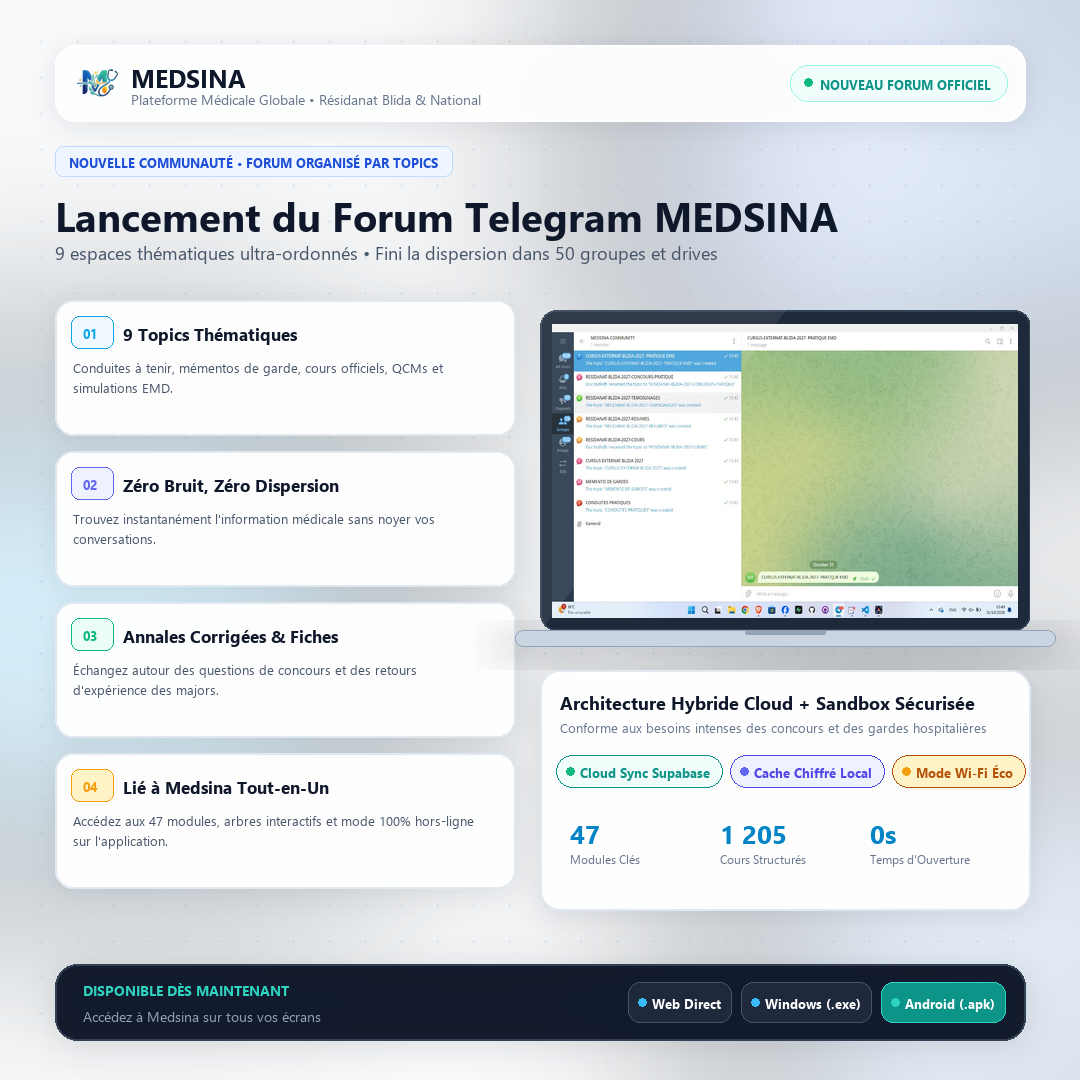
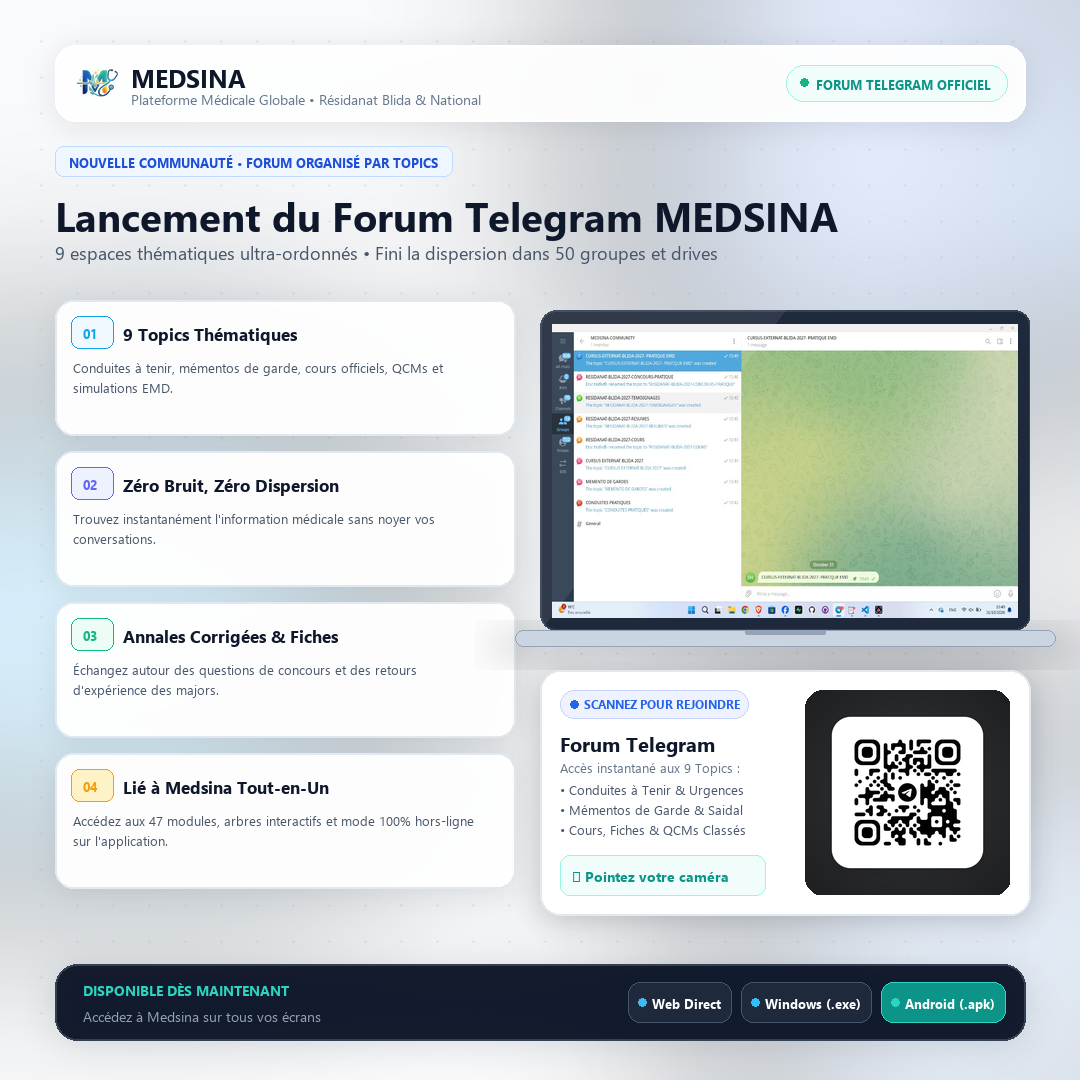
feat(marketing): publish multi-photo Facebook posts with embedded QR code and high-res Telegram QR asset

Changed region(s): [[0.5194, 0.6417, 0.9472, 0.8556], [0.7333, 0.0611, 0.8556, 0.0917]]

diff --git a/scripts/automation/publish_community_forum_launch.py b/scripts/automation/publish_community_forum_launch.py
@@ -3,7 +3,7 @@
 
 """
 =============================================================================
-DIFFUSEUR MULTI-CANAL : PROMOTION DU FORUM TELEGRAM MEDSINA-COMMUNITY
+DIFFUSEUR MULTI-CANAL : PROMOTION DU FORUM TELEGRAM AVEC QR CODE
 =============================================================================
 Publie simultanément sur :
 1. Facebook Page « Résidanat Blida 2027 » (ID: 1405719695953624)
@@ -12,11 +12,10 @@ Publie simultanément sur :
 4. Telegram Canal Officiel « @medsina_officiel »
 5. Telegram Supergroupe Forum « MEDSINA-COMMUNITY » (Topic #General)
 
-Objectifs :
-- Annoncer l'ouverture du supergroupe Telegram forum MEDSINA-COMMUNITY avec 9 Topics.
-- Résoudre le problème n°1 des étudiants : la dispersion dans 50 groupes et drives.
-- Inviter expressément les gens à l'inscription sur Medsina Tout-en-Un.
-- Intégrer en priorité le lien d'invitation direct du groupe Telegram.
+Intègre :
+- Affiche Infographique HD avec Spotlight Card + QR Code intégré
+- Fichier image haute résolution dédié du QR Code en multi-photos Facebook
+- Inscription gratuite mise en avant sur Medsina Tout-en-Un
 =============================================================================
 """
 
@@ -26,7 +25,7 @@ import json
 import argparse
 import requests
 from pathlib import Path
-from typing import Dict, Any, Optional
+from typing import Dict, Any, Optional, List
 
 try:
     if sys.stdout.encoding.lower() != 'utf-8':
@@ -40,10 +39,12 @@ from telegram_publisher import send_telegram_broadcast, OCTENIUM_WEB_URL, OCTENI
 
 TELEGRAM_COMMUNITY_INVITE = "https://t.me/+TVTTgt8eIMk5NmI0"
 
-BANNER_PATH = Path(__file__).resolve().parents[2] / "assets" / "medsina_community_telegram_forum_banner.png"
+ASSETS_DIR = Path(__file__).resolve().parents[2] / "assets"
+BANNER_PATH = ASSETS_DIR / "medsina_community_telegram_forum_banner.png"
+QR_PATH = ASSETS_DIR / "telegram_community_qr.png"
 
 # =============================================================================
-# RÉDACTION DES PUBLICATIONS FACEBOOK & TELEGRAM (ANONYMISÉES & CENTRÉES INSCRIPTION)
+# RÉDACTION DES PUBLICATIONS FACEBOOK & TELEGRAM (AVEC QR CODE & INSCRIPTION)
 # =============================================================================
 
 POST_FACEBOOK_GENERAL = f"""📢 @followers | FINIE LA DISPERSION : REJOIGNEZ LE GROUPE TELEGRAM & CRÉEZ VOTRE COMPTE SUR MEDSINA ! 🇩🇿⚡
@@ -69,7 +70,8 @@ Un Supergroupe structuré par spécialités et besoins, où chaque ressource est
 8⃣ 🎯 #RESIDANAT-BLIDA-2027-CONCOURS-PRATIQUE : Annales QCMs classées & corrigés
 9⃣ 📝 #CURSUS-EXTERNAT-BLIDA-2027- PRATIQUE EMD : Examens blancs de stage notés /20
 
-👉 Cliquez ici pour rejoindre le Groupe Telegram :
+📲 SCANNEZ LE QR CODE JOINT OU CLIQUEZ SUR LE LIEN :
+Pointez l'appareil photo de votre smartphone sur le QR Code joint pour intégrer le groupe instantanément :
 🔗 {TELEGRAM_COMMUNITY_INVITE}
 
 ━━━━━━━━━━━━━━━━━━━━━━━━━━
@@ -109,7 +111,7 @@ Rejoignez la communauté médicale officielle organisée par topics et inscrivez
 • 🌙 #MEMENTO DE GARDES : Posologies hospitalières (PCH & Saidal), scores d'alerte, constantes bio
 • 📚 #COURS & RÉSUMÉS : Fiches pratiques pour sécuriser chaque prescription
 
-👉 Lien d'accès direct au Groupe Telegram :
+📲 SCANNEZ LE QR CODE CI-JOINT OU CLIQUEZ SUR LE LIEN DIRECT :
 🔗 {TELEGRAM_COMMUNITY_INVITE}
 
 ━━━━━━━━━━━━━━━━━━━━━━━━━━
@@ -143,6 +145,8 @@ Rejoignez le <b>Groupe Forum Telegram MEDSINA-COMMUNITY</b> structuré en <b>9 T
 8⃣ <b>#CONCOURS-PRATIQUE</b> : QCMs d'annales classées & corrigés
 9⃣ <b>#PRATIQUE EMD</b> : Examens blancs notés /20
 
+📲 <i>Scannez le QR Code joint ou cliquez sur le bouton ci-dessous pour rejoindre le Forum Telegram !</i>
+
 ━━━━━━━━━━━━━━━━━━━━
 🚀 <b>INSCRIVEZ-VOUS SUR MEDSINA TOUT-EN-UN :</b>
 Créez votre compte gratuit en 30s et retrouvez <b>TOUT au même endroit 100% hors-ligne</b> !"""
@@ -152,8 +156,8 @@ Créez votre compte gratuit en 30s et retrouvez <b>TOUT au même endroit 100% ho
 # FONCTIONS DE PUBLICATION
 # =============================================================================
 
-def publish_facebook(page_id: str, token: str, page_name: str, image_path: Path, caption: str, dry_run: bool = False) -> Optional[str]:
-    print(f"\n📢 Diffusion Facebook sur : {page_name} (ID: {page_id})...")
+def publish_facebook_post(page_id: str, token: str, page_name: str, image_paths: List[Path], caption: str, dry_run: bool = False) -> Optional[str]:
+    print(f"\n📢 Diffusion Facebook sur : {page_name} (ID: {page_id}) avec {len(image_paths)} images (Affiche + QR Code)...")
     if dry_run:
         print(f"   [DRY-RUN] Facebook {page_name} simulé avec succès.")
         return "dry_run_fb_id"
@@ -163,19 +167,33 @@ def publish_facebook(page_id: str, token: str, page_name: str, image_path: Path,
         return None
 
     try:
-        url = f"https://graph.facebook.com/v21.0/{page_id}/photos"
-        with open(image_path, "rb") as f:
-            files = {"source": (os.path.basename(image_path), f, "image/png")}
-            data = {"caption": caption, "access_token": token}
-            r = requests.post(url, data=data, files=files, timeout=40)
+        # Multi-photo upload
+        media_fbids = []
+        for img_path in image_paths:
+            with open(img_path, "rb") as f:
+                files = {"source": (os.path.basename(img_path), f, "image/png")}
+                data = {"access_token": token, "published": "false"}
+                r = requests.post(f"https://graph.facebook.com/v21.0/{page_id}/photos", data=data, files=files, timeout=40)
+                if r.status_code == 200 and r.json().get("id"):
+                    media_fbids.append({"media_fbid": r.json()["id"]})
+                else:
+                    print(f"   ❌ Erreur upload photo {img_path}: {r.status_code} {r.text[:150]}")
+                    return None
 
-        if r.status_code == 200:
-            post_id = r.json().get("post_id") or r.json().get("id")
-            print(f"   ✅ Succès Facebook {page_name} ! Post ID: {post_id}")
+        feed_url = f"https://graph.facebook.com/v21.0/{page_id}/feed"
+        feed_data = {
+            "access_token": token,
+            "message": caption,
+            "attached_media": json.dumps(media_fbids)
+        }
+        r_feed = requests.post(feed_url, data=feed_data, timeout=40)
+        if r_feed.status_code == 200:
+            post_id = r_feed.json().get("id")
+            print(f"   ✅ Succès Facebook {page_name} (Affiche + QR Code) ! Post ID: {post_id}")
             print(f"   🔗 https://www.facebook.com/{post_id}")
             return post_id
         else:
-            print(f"   ❌ Erreur Facebook {page_name} ({r.status_code}): {r.text[:200]}")
+            print(f"   ❌ Erreur création post multi-photos ({r_feed.status_code}): {r_feed.text[:200]}")
             return None
     except Exception as e:
         print(f"   ❌ Exception Facebook {page_name}: {e}")
@@ -184,17 +202,20 @@ def publish_facebook(page_id: str, token: str, page_name: str, image_path: Path,
 
 def run_multi_channel_promo(dry_run: bool = False) -> Dict[str, Any]:
     print("=" * 70)
-    print("🚀 LANCEMENT DE LA PROMOTION MULTI-CANAL : FORUM MEDSINA-COMMUNITY")
+    print("🚀 LANCEMENT DE LA PROMOTION MULTI-CANAL AVEC QR CODE : FORUM MEDSINA")
     print(f"⚙ Mode : {'SIMULATION (--dry-run)' if dry_run else 'PRODUCTION RÉELLE'}")
     print("=" * 70)
 
     creds = get_social_credentials()
 
-    if not BANNER_PATH.exists():
-        print(f"⚠ Affiche non trouvée à : {BANNER_PATH}")
+    if not BANNER_PATH.exists() or not QR_PATH.exists():
+        print(f"⚠ Affiche ou QR Code manquant ! Banner: {BANNER_PATH.exists()} | QR: {QR_PATH.exists()}")
         sys.exit(1)
 
     print(f"🖼 Affiche marketing validée : {BANNER_PATH} ({os.path.getsize(BANNER_PATH) // 1024} Ko)")
+    print(f"📱 QR Code Telegram validé  : {QR_PATH} ({os.path.getsize(QR_PATH) // 1024} Ko)")
+
+    images_to_publish = [BANNER_PATH, QR_PATH]
 
     results = {
         "facebook_blida": None,
@@ -204,32 +225,32 @@ def run_multi_channel_promo(dry_run: bool = False) -> Dict[str, Any]:
         "telegram_community": None,
     }
 
-    # 1. Facebook Page Résidanat Blida 2027
-    results["facebook_blida"] = publish_facebook(
+    # 1. Facebook Page Résidanat Blida 2027 (Affiche + QR Code)
+    results["facebook_blida"] = publish_facebook_post(
         page_id=creds["blida_page_id"],
         token=creds["blida_token"],
         page_name="Résidanat Blida 2027",
-        image_path=BANNER_PATH,
+        image_paths=images_to_publish,
         caption=POST_FACEBOOK_GENERAL,
         dry_run=dry_run
     )
 
-    # 2. Facebook Page MedevSync
-    results["facebook_medevsync"] = publish_facebook(
+    # 2. Facebook Page MedevSync (Affiche + QR Code)
+    results["facebook_medevsync"] = publish_facebook_post(
         page_id=creds["medevsync_page_id"],
         token=creds["medevsync_token"],
         page_name="MedevSync Partenaire",
-        image_path=BANNER_PATH,
+        image_paths=images_to_publish,
         caption=POST_FACEBOOK_GENERAL,
         dry_run=dry_run
     )
 
-    # 3. Facebook Page CAT aux Urgences
-    results["facebook_cat"] = publish_facebook(
+    # 3. Facebook Page CAT aux Urgences (Affiche + QR Code)
+    results["facebook_cat"] = publish_facebook_post(
         page_id=creds["cat_page_id"],
         token=creds["cat_token"],
         page_name="CAT aux Urgences",
-        image_path=BANNER_PATH,
+        image_paths=images_to_publish,
         caption=POST_FACEBOOK_CAT_URGENCES,
         dry_run=dry_run
     )
@@ -277,7 +298,7 @@ def run_multi_channel_promo(dry_run: bool = False) -> Dict[str, Any]:
 
 
 def main():
-    parser = argparse.ArgumentParser(description="Multi-Channel Broadcaster for Medsina-Community Forum Launch")
+    parser = argparse.ArgumentParser(description="Multi-Channel Broadcaster for Medsina-Community Forum Launch with QR Code")
     parser.add_argument("--dry-run", action="store_true", help="Simulate without publishing")
     args = parser.parse_args()
 
